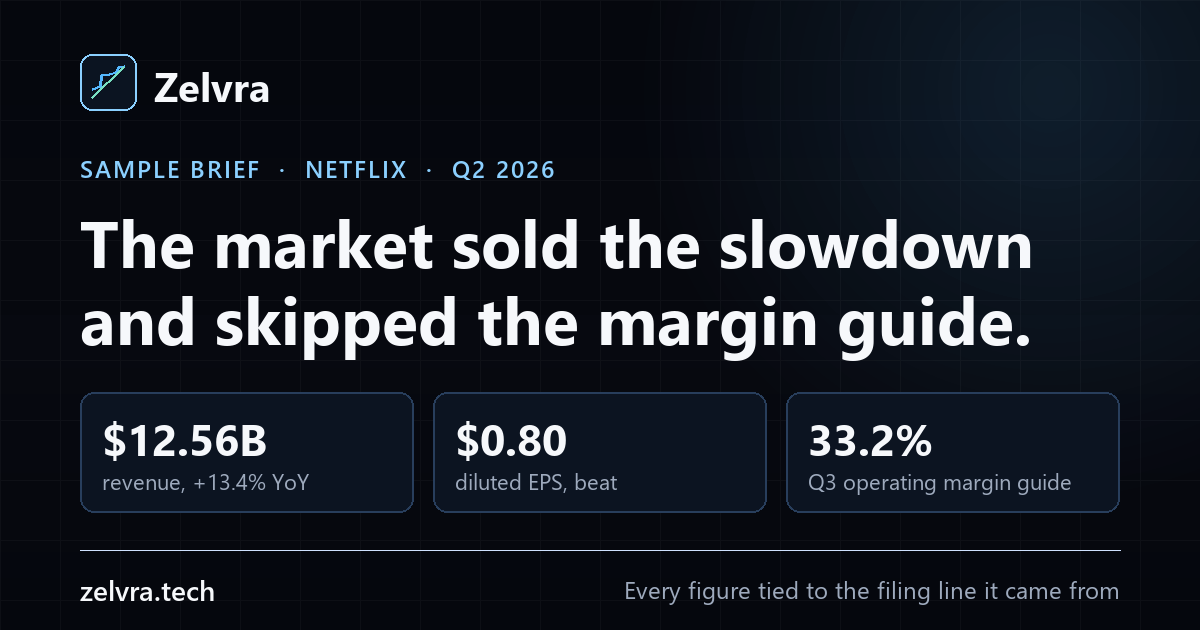
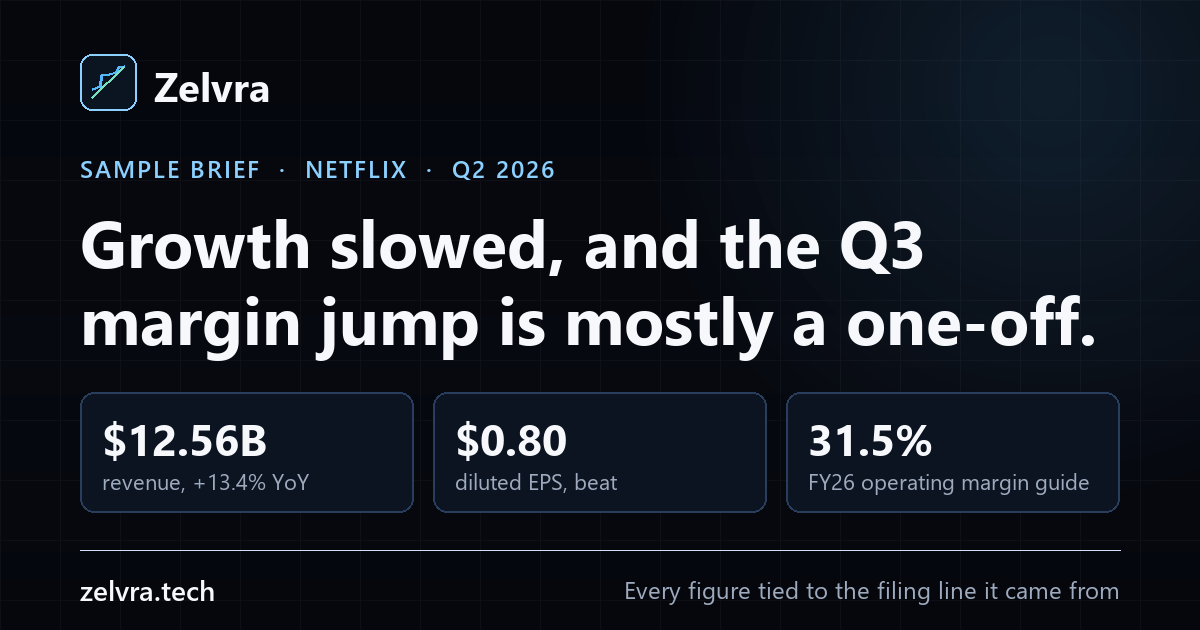
NFLX Q2 brief: add Brazil tax context to the Q3 margin comparison (for review)
Q3 2025's reported 28.2% operating margin included an approximately
$619M Brazilian tax expense (Netflix Q3'25 letter). The "+500 bps"
framing presented the Q3'26 guide as an inflection; like-for-like it is
roughly flat (~33.6% ex-charge, derived and labeled). Reframed the
overlooked angle, bull bullet, thread post, newsletter and YouTube
points around the full-year margin path (29.5% -> 31.5%), added the
Q3'25 letter and EDGAR links to sources, and a dated correction note.
Share card headline updated to match.

Changed region(s): [[0.0617, 0.3317, 0.925, 0.573], [0.6783, 0.754, 0.925, 0.7841], [0.6783, 0.6635, 0.7708, 0.7238]]

diff --git a/sample-nflx-q2-2026.html b/sample-nflx-q2-2026.html
@@ -22,7 +22,7 @@
     <meta property="og:title" content="Netflix Q2 2026 Earnings Brief | Zelvra">
     <meta
       property="og:description"
-      content="Netflix beat on EPS, missed revenue by 0.25%, and fell 9% after hours. The real story is in the Q3 margin guide. A source-backed Zelvra brief, built overnight."
+      content="Netflix beat on EPS, missed revenue by 0.25%, and fell 9% after hours. The Q3 margin &ldquo;jump&rdquo; is mostly a one-off in last year&#39;s base. A source-backed Zelvra brief, built overnight."
     >
     <meta property="og:image" content="https://zelvra.tech/assets/og-nflx-q2-2026.png">
     <meta property="og:image:width" content="1200">
@@ -32,14 +32,14 @@
     <!-- Twitter / X -->
     <meta name="twitter:card" content="summary_large_image">
     <meta name="twitter:title" content="Netflix Q2 2026 Earnings Brief | Zelvra">
-    <meta name="twitter:description" content="Netflix beat on EPS, missed revenue by 0.25%, and fell 9% after hours. The real story is in the Q3 margin guide. A source-backed Zelvra brief, built overnight.">
+    <meta name="twitter:description" content="Netflix beat on EPS, missed revenue by 0.25%, and fell 9% after hours. The Q3 margin &ldquo;jump&rdquo; is mostly a one-off in last year&#39;s base. A source-backed Zelvra brief, built overnight.">
     <meta name="twitter:image" content="https://zelvra.tech/assets/og-nflx-q2-2026.png">
     <meta name="twitter:image:alt" content="Zelvra Netflix Q2 2026 brief: $12.56B revenue, $0.80 EPS, 33.2% Q3 operating margin guide.">
 
     <link rel="icon" href="./assets/favicon.svg" type="image/svg+xml">
     <link rel="apple-touch-icon" href="./assets/favicon.svg">
     <link rel="manifest" href="./site.webmanifest">
-    <link rel="stylesheet" href="styles.css?v=20261015d">
+    <link rel="stylesheet" href="styles.css?v=20261015e">
   </head>
   <body class="brief-page">
     <div class="read-progress" aria-hidden="true"><span id="read-progress-bar"></span></div>
@@ -74,6 +74,11 @@
           the morning after the print. This is the exact format Week Pass subscribers receive: the numbers that
           matter, what changed, a publish-ready X thread, and a full source list, every figure tied back to a
           filing line.
+        </p>
+        <p class="brief-correction">
+          <strong>Correction, Oct 15, 2026:</strong> an earlier version said Netflix's Q3 revenue guidance implied
+          ~$13.0B; the Q2 letter forecasts $12.86B. Margin comparisons now also note that Q3 2025 included an
+          approximately $619 million Brazilian tax expense.
         </p>
         <dl class="brief-facts" aria-label="Brief details">
           <div><dt>Company</dt><dd>Netflix, Inc. (NASDAQ: NFLX)</dd></div>
@@ -119,8 +124,9 @@
                 additions — global membership stands at <strong>325 million</strong>. The ad-supported tier
                 reached <strong>250 million monthly active viewers</strong>, and full-year ad revenue remains on
                 track for roughly <strong>$3 billion</strong>, about double 2025 levels. For Q3, Netflix guided to
-                12% revenue growth and a 33.2% operating margin — the latter a roughly 500 basis point improvement
-                over Q3 2025's 28.2% — and narrowed full-year revenue guidance to $51.0&ndash;$51.4 billion.
+                12% revenue growth and a 33.2% operating margin (against 28.2% reported in Q3 2025, a quarter that
+                absorbed a roughly $619 million Brazilian tax expense) and narrowed full-year revenue guidance to
+                $51.0&ndash;$51.4 billion.
                 Shares fell approximately 9% after hours to a 52-week low as the market focused on the small
                 revenue miss and the third consecutive quarter of decelerating top-line growth rather than the
                 margin improvement embedded in guidance.
@@ -160,7 +166,7 @@
               <div class="kpi-card kpi-card-wide">
                 <p class="kpi-label">Q3 2026 guidance</p>
                 <p class="kpi-value">+12% <span class="kpi-pm">revenue &middot; 33.2% op margin</span></p>
-                <p class="kpi-sub">$12.86B forecast &middot; margin +500 bps vs Q3 2025's 28.2% &middot; FY26 revenue narrowed to $51.0&ndash;$51.4B</p>
+                <p class="kpi-sub">$12.86B forecast &middot; vs 28.2% reported Q3 2025 (~33.6% ex Brazil tax charge) &middot; FY26 revenue narrowed to $51.0&ndash;$51.4B</p>
               </div>
             </div>
 
@@ -188,12 +194,13 @@
               <div class="info-block">
                 <h3>3 &middot; Operating margin — 33.4%</h3>
                 <p>
-                  Down 70 bps year over year, and the least important margin number in the report. The Q3 guide of
-                  33.2% against Q3 2025's 28.2% is the one that matters: a ~500 basis point year-over-year
-                  improvement implies real operating leverage arriving exactly as revenue growth slows. Content
-                  amortization growth was characterized as peaking in Q2 and decelerating through H2.
+                  Down 70 bps year over year. The Q3 guide of 33.2% needs context: Q3 2025's reported 28.2% included
+                  an approximately $619 million Brazilian tax expense. Excluding it, Q3 2025 was roughly 33.6%
+                  (derived), so the Q3 guide is about flat on a like-for-like basis. The cleaner leverage signal is
+                  the full year: Netflix guides a 31.5% operating margin for 2026, up from 29.5% in 2025, with content
+                  amortization growing slower in the second half than in the first.
                 </p>
-                <p class="source-cite">Source: Netflix Q2 2026 Shareholder Letter (ir.netflix.net); earnings call commentary.</p>
+                <p class="source-cite">Source: Netflix Q2 2026 Shareholder Letter; Netflix Q3 2025 Shareholder Letter (Brazil tax expense). Both Form 8-K Ex. 99.1 on SEC EDGAR.</p>
               </div>
               <div class="info-block">
                 <h3>4 &middot; Ad tier — 250M monthly active viewers</h3>
@@ -279,11 +286,12 @@
                 </p>
               </div>
               <div class="info-block">
-                <h3>Margins — Q2 dipped, Q3 guide jumped</h3>
+                <h3>Margins — Q2 dipped, full-year path intact</h3>
                 <p>
-                  Q2 operating margin of 33.4% was down 70 bps year over year, but Q3 is guided to 33.2% against
-                  28.2% in Q3 2025 — a ~500 bps improvement. Content amortization growth was described as peaking
-                  in Q2 and decelerating through H2, which supports the margin path into year-end.
+                  Q2 operating margin of 33.4% was down 70 bps year over year. Q3 is guided to 33.2% against a
+                  reported 28.2% in Q3 2025, but that quarter included a ~$619M Brazilian tax expense; excluding it,
+                  Q3 2025 was ~33.6%, so the quarterly comparison is flattered. The full-year guide (31.5% vs 29.5%
+                  in 2025) is the cleaner read, with content amortization expected to grow slower in the second half.
                 </p>
               </div>
               <div class="info-block">
@@ -319,7 +327,7 @@
               <div class="lens-card lens-bull">
                 <h3>Bull read</h3>
                 <ul class="lens-list">
-                  <li><strong>The Q3 margin guide is the definition of operating leverage.</strong> 33.2% guided against 28.2% a year ago means profit is set to grow faster than revenue even as the top line slows.</li>
+                  <li><strong>The full-year margin path is intact.</strong> Netflix still guides a 31.5% operating margin for 2026, up from 29.5% in 2025, with content amortization growing slower in the second half.</li>
                   <li><strong>The ad business is a second engine that barely existed three years ago.</strong> 250M MAUs and ~$3B in 2026 ad revenue, doubling year over year, with pricing power still early.</li>
                   <li><strong>Guidance was narrowed, not cut.</strong> A tighter range around an unchanged midpoint, with double-digit growth in all four regions and content costs past their peak growth rate.</li>
                 </ul>
@@ -335,18 +343,18 @@
             </div>
             <div class="miss-card">
               <p class="miss-tag">What everyone might miss</p>
-              <h3>The market sold the deceleration and skipped the margin inflection</h3>
+              <h3>The &ldquo;+500 bps&rdquo; Q3 margin jump is mostly a one-off in last year's base</h3>
               <p>
-                Nearly all coverage led with the growth slowdown and the after-hours drop. The Q3 operating margin
-                guide — 33.2% versus 28.2% a year earlier — was treated as a footnote. A ~500 basis point
-                year-over-year margin improvement, guided in advance, alongside content amortization growth
-                peaking, is the profile of a company shifting from growth-at-any-cost to cash compounding.
+                On paper, Netflix guided Q3 operating margin to 33.2% versus 28.2% a year earlier, a jump of roughly
+                500 basis points. But Netflix's own Q3 2025 letter shows that quarter absorbed an approximately
+                $619 million expense tied to a Brazilian tax dispute. Add it back and Q3 2025's underlying margin was
+                about 33.6%, so the Q3 2026 guide is roughly flat on a like-for-like basis.
               </p>
               <p>
-                The angle for a newsletter or thread is not &ldquo;Netflix fell 9%.&rdquo; It is: &ldquo;the market
-                repriced Netflix on a metric Netflix no longer reports, while ignoring the one management actually
-                guided up.&rdquo; That tension — deceleration versus operating leverage — is the debate worth
-                owning this cycle.
+                The angle for a newsletter or thread is not &ldquo;Netflix fell 9%&rdquo; or &ldquo;margins are
+                inflecting.&rdquo; It is: &ldquo;the quarterly margin comparison is flattered by a one-off; the
+                full-year path, 29.5% to 31.5%, is the real leverage signal, and it held.&rdquo; Getting that base
+                effect right is the difference between a sourced brief and a headline.
               </p>
             </div>
           </section>
@@ -387,8 +395,8 @@ That's a deliberate choice, and worth noting.</p></li>
 ~$3B in 2026 ad revenue expected — 2x last year.
 Netflix is now one of the largest ad-supported video platforms in the world.</p></li>
               <li class="tweet"><p>Operating margin: 33.4% in Q2 (vs 34.1% a year ago).
-But Q3 is guided at 33.2% — that's ~500 bps ABOVE Q3 2025's 28.2%.
-Profit growing faster than revenue. That's the chart that matters long-term.</p></li>
+Q3 is guided at 33.2% vs 28.2% a year ago, but Q3 2025 absorbed a ~$619M Brazil tax charge. Ex-charge: ~33.6%.
+The cleaner signal: full-year margin guided 31.5% vs 29.5% in 2025.</p></li>
               <li class="tweet"><p>All figures from Netflix's Q2 2026 shareholder letter and press release (ir.netflix.net).
 Research content only — not investment advice.
 Full sourced brief: zelvra.tech</p></li>
@@ -409,9 +417,10 @@ Full sourced brief: zelvra.tech</p></li>
                 trajectory, not results: growth has slowed from 16% in Q1 to 13% in Q2, with Q3 guided at 12%.
               </p>
               <p>
-                Two things complicate the bearish read. First, the Q3 operating margin guide of 33.2% sits roughly
-                500 basis points above Q3 2025's 28.2% — profit is set to grow meaningfully faster than revenue,
-                with content amortization growth described as peaking in Q2 and easing through the second half.
+                Two things complicate the bearish read. First, Netflix still guides a 31.5% operating margin for
+                2026, up from 29.5% in 2025, with content amortization growing slower in the second half. (The Q3
+                guide of 33.2% looks like a 500 bps jump on Q3 2025's reported 28.2%, but that quarter absorbed a
+                ~$619 million Brazilian tax expense; like-for-like it is roughly flat.)
                 Second, the advertising business keeps scaling: 250 million monthly active viewers on the
                 ad-supported tier and roughly $3 billion in 2026 ad revenue, about double last year. Netflix also
                 narrowed full-year revenue guidance to $51.0&ndash;$51.4 billion around an unchanged midpoint —
@@ -442,9 +451,9 @@ Full sourced brief: zelvra.tech</p></li>
                   <li><strong>2 &middot; The deceleration chart.</strong> Show 16% &rarr; 13% &rarr; 12% guided. Three quarters, one direction. Ask whether this is maturity or a pause.</li>
                   <li><strong>3 &middot; The retired metric.</strong> No more subscriber-additions disclosure; 325M members as a point-in-time number. Explain why companies retire metrics and what it signals about the story management wants told.</li>
                   <li><strong>4 &middot; The ad platform nobody prices.</strong> 250M MAUs, ~$3B ad revenue doubling year over year. Compare that reach to traditional TV networks on screen.</li>
-                  <li><strong>5 &middot; The margin inflection the coverage skipped.</strong> Q3 guided at 33.2% vs 28.2% last year. Walk through operating leverage in plain language: revenue slows, profit accelerates.</li>
+                  <li><strong>5 &middot; The margin comparison, done right.</strong> Q3 guided at 33.2% vs 28.2% last year looks like a 500 bps jump, but Q3 2025 included a ~$619M Brazil tax charge (~33.6% ex-charge). Show the full-year path instead: 29.5% in 2025 to 31.5% guided for 2026.</li>
                   <li><strong>6 &middot; Engagement vs monetization.</strong> 97B H1 viewing hours, up only ~2%, against 13% revenue growth. Pricing and ads, not watch time, are carrying growth — discuss how long that can run.</li>
-                  <li><strong>7 &middot; Close on the reframe.</strong> The market repriced Netflix on a number it no longer reports and ignored the one management guided up. End with the Q3 checklist: margin delivery, ad commentary, and whether deceleration finds a floor at 12%.</li>
+                  <li><strong>7 &middot; Close on the reframe.</strong> The market repriced Netflix on a number it no longer reports; the margin story is real at the full-year level, not in the flattered quarterly comparison. End with the Q3 checklist: margin delivery against 33.2%, ad commentary, and whether deceleration finds a floor at 12%.</li>
                 </ul>
               </div>
             </details>
@@ -460,7 +469,7 @@ Full sourced brief: zelvra.tech</p></li>
             </p>
             <details class="collapsible">
               <summary>
-                <span class="summary-label">Primary sources (3)</span>
+                <span class="summary-label">Primary sources (4)</span>
                 <span class="summary-icon" aria-hidden="true"></span>
               </summary>
               <div class="collapsible-body">
@@ -468,7 +477,13 @@ Full sourced brief: zelvra.tech</p></li>
                   <li>
                     <span class="source-claim">Netflix Q2 2026 Shareholder Letter &amp; Press Release (Form 8-K)</span>
                     <span class="source-ref">Netflix IR / SEC EDGAR, filed July 16, 2026 &mdash; <a target="_blank" rel="noopener noreferrer" href="https://ir.netflix.net/financials/quarterly-earnings/default.aspx">ir.netflix.net/&hellip;/quarterly-earnings</a></span>
-                    <span class="source-ref">Supports: revenue, EPS, net income, operating income and margin, regional revenue, Q3 guidance, full-year guidance range, membership figure.</span>
+                    <span class="source-ref">Supports: revenue, EPS, net income, operating income and margin, regional revenue, Q3 guidance ($12.86B revenue, 33.2% margin), full-year guidance range, full-year 2026 operating margin guide (31.5% vs 29.5% in 2025), membership figure.</span>
+                    <span class="source-ref">EDGAR: <a target="_blank" rel="noopener noreferrer" href="https://www.sec.gov/Archives/edgar/data/1065280/000106528026000211/ex991_q226.htm">sec.gov/&hellip;/ex991_q226.htm</a></span>
+                  </li>
+                  <li>
+                    <span class="source-claim">Netflix Q3 2025 Shareholder Letter (Form 8-K, Exhibit 99.1), October 21, 2025</span>
+                    <span class="source-ref"><a target="_blank" rel="noopener noreferrer" href="https://www.sec.gov/Archives/edgar/data/1065280/000106528025000404/ex991_q325.htm">sec.gov/&hellip;/ex991_q325.htm</a></span>
+                    <span class="source-ref">Supports: Q3 2025 revenue ($11,510M), operating income ($3,248M) and margin (28.2%), and the approximately $619 million Brazilian tax expense. Derived: ~33.6% = ($3,248M + ~$619M) &divide; $11,510M.</span>
                   </li>
                   <li>
                     <span class="source-claim">Netflix Q2 2026 Earnings Call (July 16, 2026)</span>
@@ -552,6 +567,6 @@ Full sourced brief: zelvra.tech</p></li>
       </div>
     </footer>
 
-    <script src="./script.js?v=20261015d" defer></script>
+    <script src="./script.js?v=20261015e" defer></script>
   </body>
 </html>

diff --git a/sample-nvidia-q1-fy2027.html b/sample-nvidia-q1-fy2027.html
@@ -38,7 +38,7 @@
     <link rel="icon" href="./assets/favicon.svg" type="image/svg+xml">
     <link rel="apple-touch-icon" href="./assets/favicon.svg">
     <link rel="manifest" href="./site.webmanifest">
-    <link rel="stylesheet" href="styles.css?v=20261015d">
+    <link rel="stylesheet" href="styles.css?v=20261015e">
   </head>
   <body class="brief-page">
     <div class="read-progress" aria-hidden="true"><span id="read-progress-bar"></span></div>
@@ -670,6 +670,6 @@ Research content only. Not financial advice.</p></li>
       </div>
     </footer>
 
-    <script src="./script.js?v=20261015d" defer></script>
+    <script src="./script.js?v=20261015e" defer></script>
   </body>
 </html>

diff --git a/sample-asml-q3-2026.html b/sample-asml-q3-2026.html
@@ -39,7 +39,7 @@
     <link rel="icon" href="./assets/favicon.svg" type="image/svg+xml">
     <link rel="apple-touch-icon" href="./assets/favicon.svg">
     <link rel="manifest" href="./site.webmanifest">
-    <link rel="stylesheet" href="styles.css?v=20261015d">
+    <link rel="stylesheet" href="styles.css?v=20261015e">
   </head>
   <body class="brief-page">
     <div class="read-progress" aria-hidden="true"><span id="read-progress-bar"></span></div>
@@ -556,6 +556,6 @@ Full sourced brief: zelvra.tech</p></li>
       </div>
     </footer>
 
-    <script src="./script.js?v=20261015d" defer></script>
+    <script src="./script.js?v=20261015e" defer></script>
   </body>
 </html>

diff --git a/sample-mu.html b/sample-mu.html
@@ -27,7 +27,7 @@
     <link rel="icon" href="./assets/favicon.svg" type="image/svg+xml">
     <link rel="apple-touch-icon" href="./assets/favicon.svg">
     <link rel="manifest" href="./site.webmanifest">
-    <link rel="stylesheet" href="styles.css?v=20261015d">
+    <link rel="stylesheet" href="styles.css?v=20261015e">
   </head>
   <body>
     <header class="site-header">
@@ -182,6 +182,6 @@
       </div>
     </footer>
 
-    <script src="./script.js?v=20261015d" defer></script>
+    <script src="./script.js?v=20261015e" defer></script>
   </body>
 </html>

diff --git a/sample-nke.html b/sample-nke.html
@@ -27,7 +27,7 @@
     <link rel="icon" href="./assets/favicon.svg" type="image/svg+xml">
     <link rel="apple-touch-icon" href="./assets/favicon.svg">
     <link rel="manifest" href="./site.webmanifest">
-    <link rel="stylesheet" href="styles.css?v=20261015d">
+    <link rel="stylesheet" href="styles.css?v=20261015e">
   </head>
   <body>
     <header class="site-header">
@@ -189,6 +189,6 @@
       </div>
     </footer>
 
-    <script src="./script.js?v=20261015d" defer></script>
+    <script src="./script.js?v=20261015e" defer></script>
   </body>
 </html>

diff --git a/sample.html b/sample.html
@@ -34,7 +34,7 @@
     <link rel="icon" href="./assets/favicon.svg" type="image/svg+xml">
     <link rel="apple-touch-icon" href="./assets/favicon.svg">
     <link rel="manifest" href="./site.webmanifest">
-    <link rel="stylesheet" href="styles.css?v=20261015d">
+    <link rel="stylesheet" href="styles.css?v=20261015e">
   </head>
   <body>
     <header class="site-header">
@@ -178,6 +178,6 @@
       </div>
     </footer>
 
-    <script src="./script.js?v=20261015d" defer></script>
+    <script src="./script.js?v=20261015e" defer></script>
   </body>
 </html>

diff --git a/index.html b/index.html
@@ -42,7 +42,7 @@
     <link rel="icon" href="./assets/favicon.svg" type="image/svg+xml">
     <link rel="apple-touch-icon" href="./assets/favicon.svg">
     <link rel="manifest" href="./site.webmanifest">
-    <link rel="stylesheet" href="styles.css?v=20261015d">
+    <link rel="stylesheet" href="styles.css?v=20261015e">
 
     <script type="application/ld+json">
       {
@@ -344,6 +344,6 @@
       </div>
     </footer>
 
-    <script src="./script.js?v=20261015d" defer></script>
+    <script src="./script.js?v=20261015e" defer></script>
   </body>
 </html>

diff --git a/404.html b/404.html
@@ -10,7 +10,7 @@
     <link rel="icon" href="/assets/favicon.svg" type="image/svg+xml">
     <link rel="apple-touch-icon" href="/assets/favicon.svg">
     <link rel="manifest" href="/site.webmanifest">
-    <link rel="stylesheet" href="/styles.css?v=20261015d">
+    <link rel="stylesheet" href="/styles.css?v=20261015e">
   </head>
   <body>
     <header class="site-header">
@@ -49,6 +49,6 @@
       </div>
     </footer>
 
-    <script src="/script.js?v=20261015d" defer></script>
+    <script src="/script.js?v=20261015e" defer></script>
   </body>
 </html>

diff --git a/styles.css b/styles.css
@@ -2205,3 +2205,16 @@ h3 {
 .next-print a:hover {
   color: var(--text);
 }
+
+/* Dated correction note under a brief's lead paragraph. */
+.brief-correction {
+  max-width: 760px;
+  margin: -8px 0 24px;
+  padding: 10px 14px;
+  color: var(--muted-strong);
+  font-size: 0.9rem;
+  line-height: 1.5;
+  background: rgba(255, 196, 0, 0.06);
+  border-left: 3px solid rgba(255, 196, 0, 0.55);
+  border-radius: 6px;
+}

diff --git a/assets/og-briefs.py b/assets/og-briefs.py
@@ -37,11 +37,11 @@ BRIEFS = [
     {
         "out": "og-nflx-q2-2026.png",
         "eyebrow": "SAMPLE BRIEF  ·  NETFLIX  ·  Q2 2026",
-        "headline": "The market sold the slowdown and skipped the margin guide.",
+        "headline": "Growth slowed, and the Q3 margin jump is mostly a one-off.",
         "chips": [
             ("$12.56B", "revenue, +13.4% YoY"),
             ("$0.80", "diluted EPS, beat"),
-            ("33.2%", "Q3 operating margin guide"),
+            ("31.5%", "FY26 operating margin guide"),
         ],
     },
 ]
